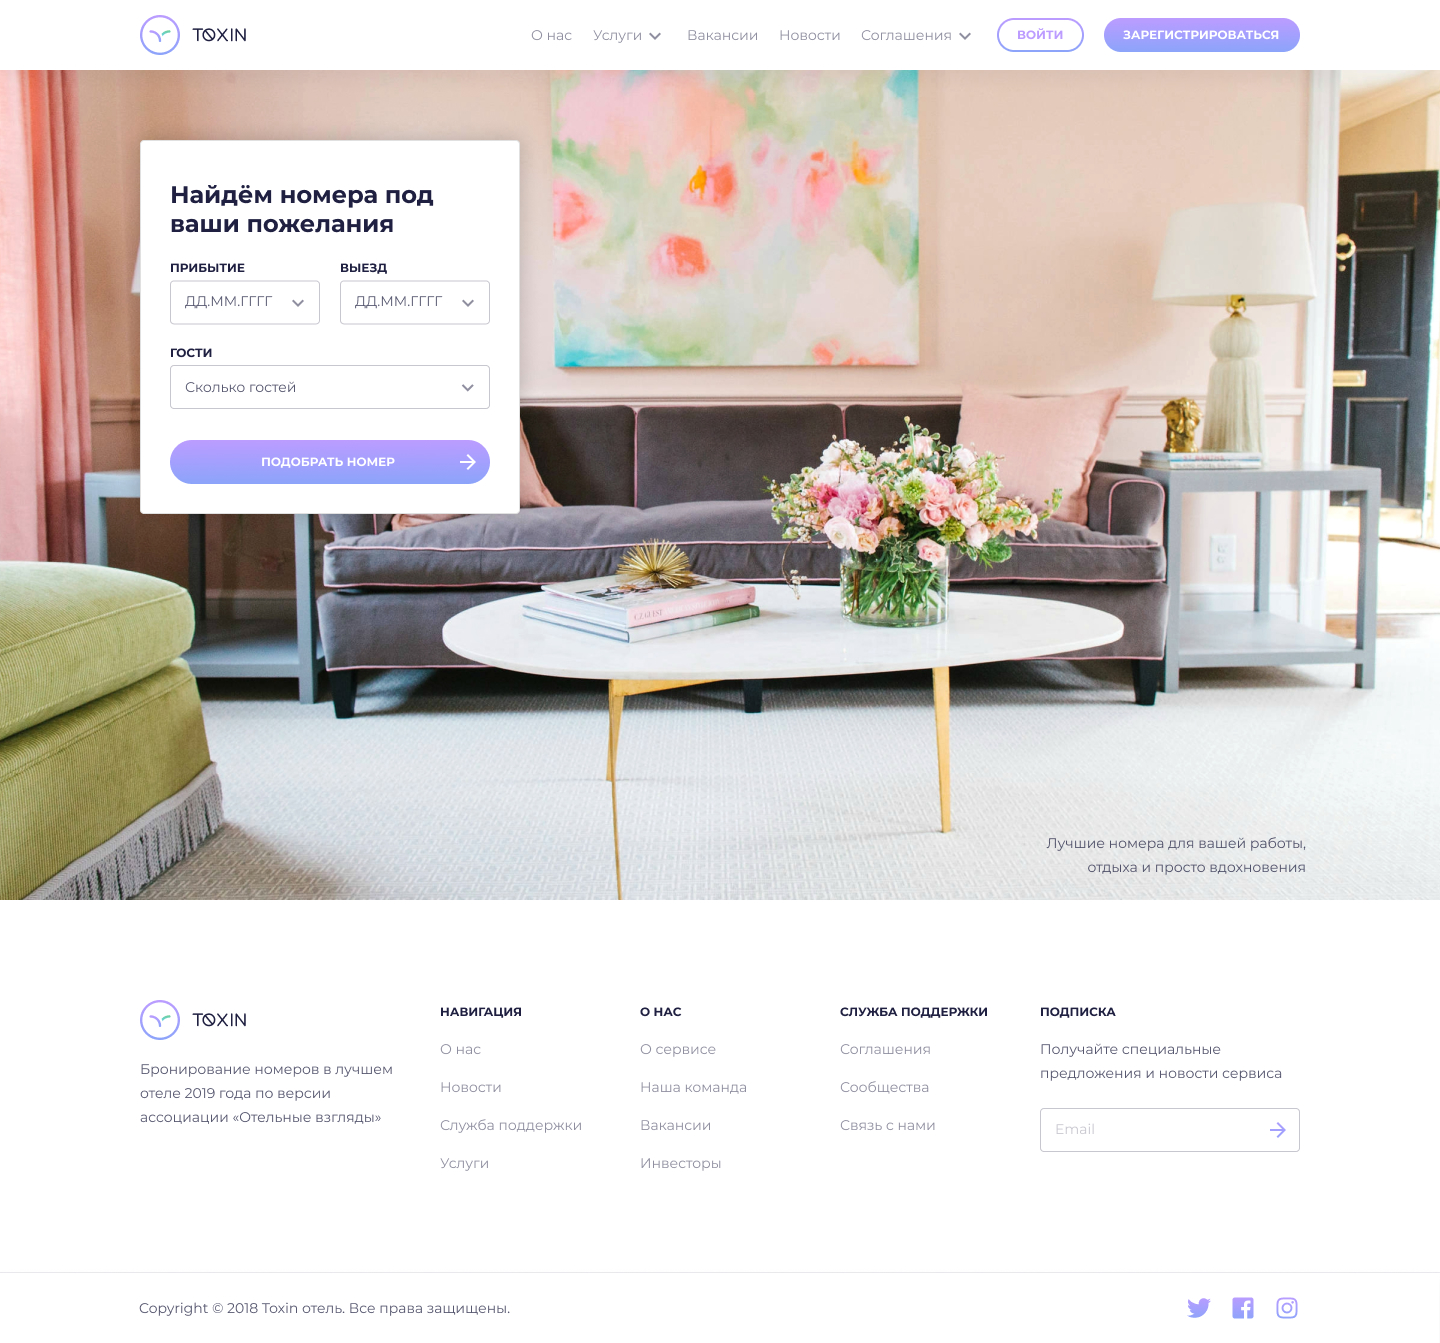
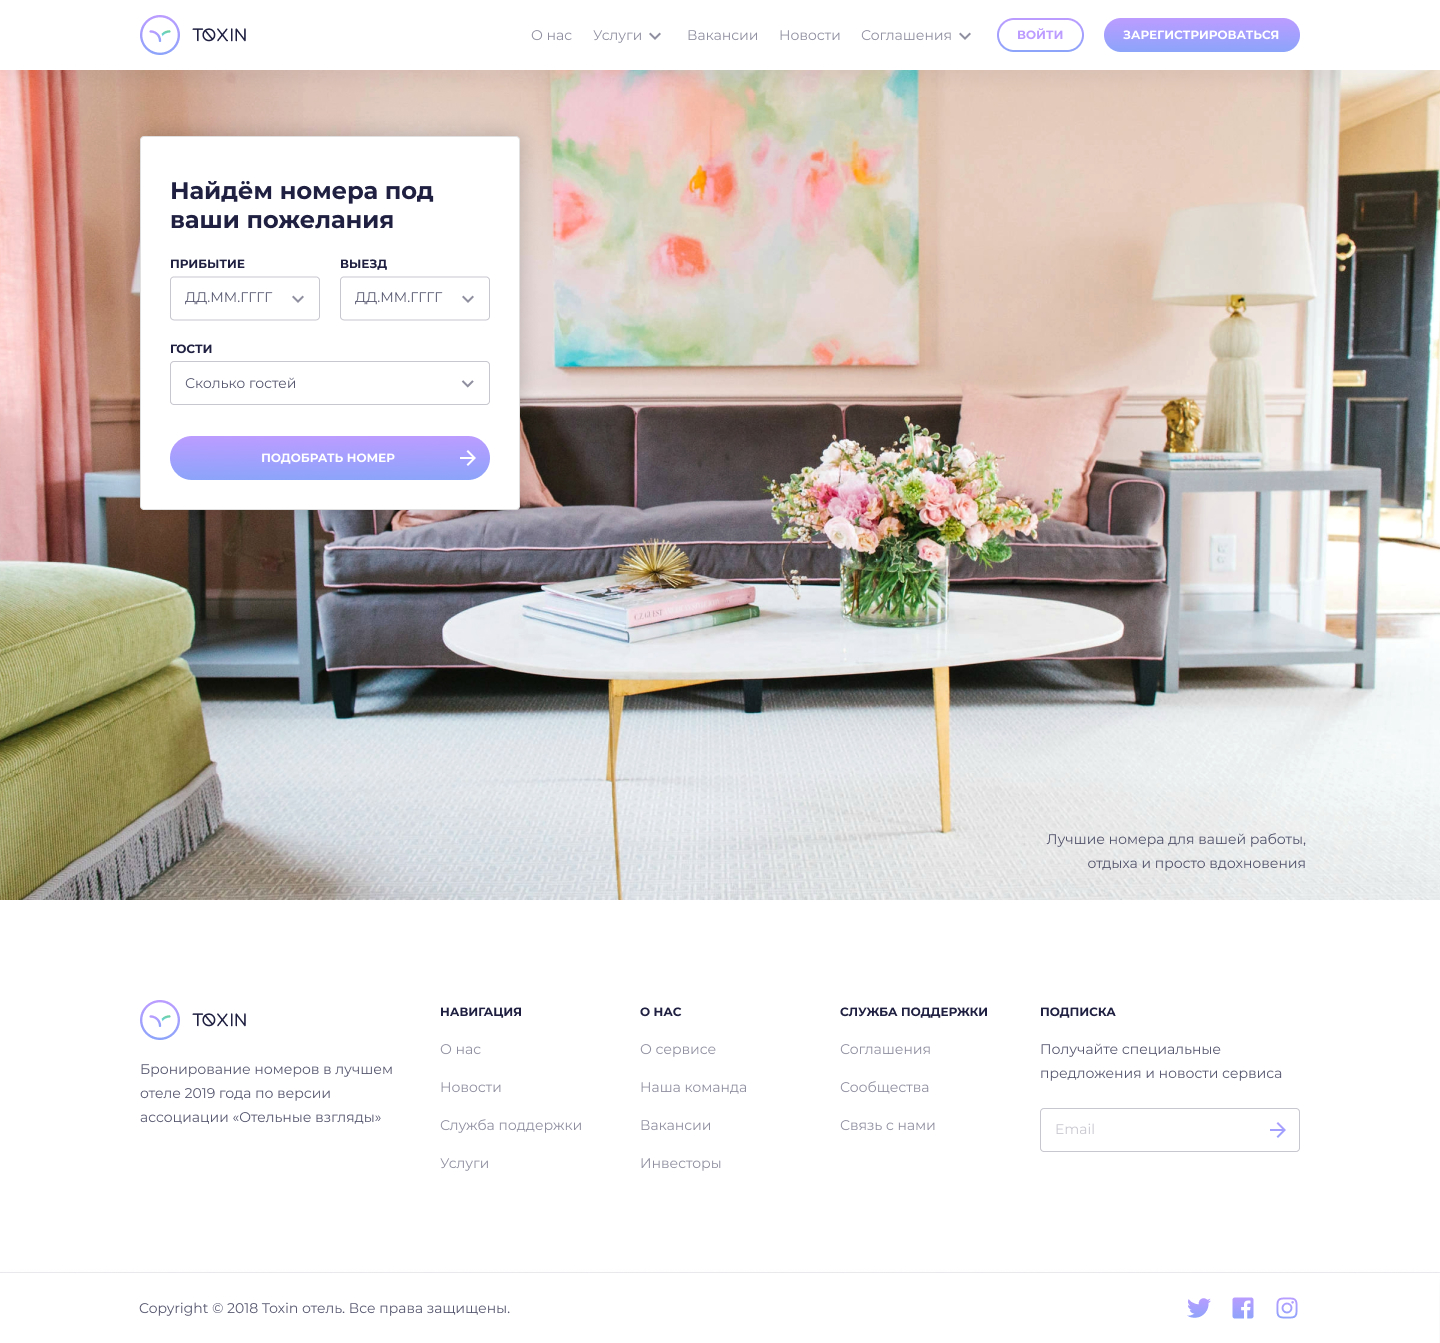
pixelPerfect: update scss rules in a connection with different appearance of landing_page

Changed region(s): [[0.0938, 0.0916, 0.3438, 0.3969], [0.75, 0.6106, 0.9062, 0.6716]]

diff --git a/src/pages/landingPage/landingPage.scss b/src/pages/landingPage/landingPage.scss
@@ -27,7 +27,8 @@
     line-height: 24px;
     width: 270px;
     height: 48px;
-    right: 134px;
+    //right: 134px;
+    right: 133px;
     bottom: 20px;
     z-index: 2;
     letter-spacing: 0.002em;
@@ -36,8 +37,13 @@
 .landingPage__card_search {
     position: absolute;
     top: 70px;
-    left: 140px;
+    //left: 140px;
+    left: 141px;
     z-index: 2;
+}
+
+.landingPage  > .footer_outer {
+    margin-top: -1px
 }
 
 /*

diff --git a/src/components/dateRangeDropdown/_dateRangeDropdown.scss b/src/components/dateRangeDropdown/_dateRangeDropdown.scss
@@ -18,7 +18,7 @@
 .dropdown__calendar {
     width: 320px;
     height: 369px;
-    margin-top: 5px;
+    margin-top: 4px;
     top: 65px;
     background: $light;
     z-index: 2;
